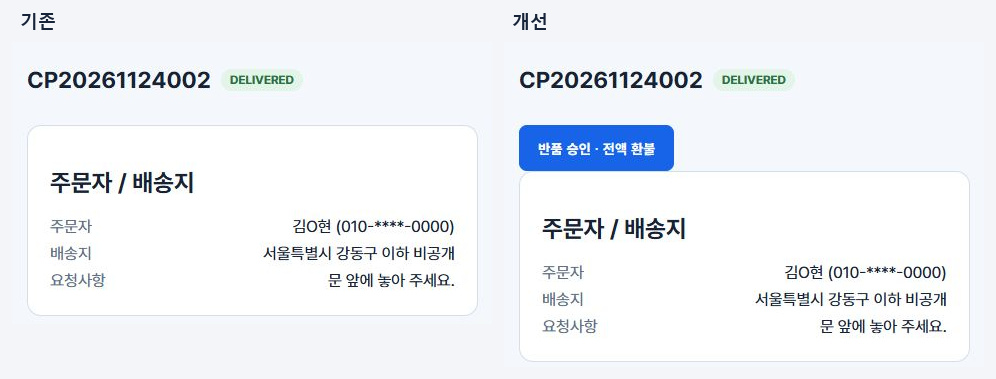
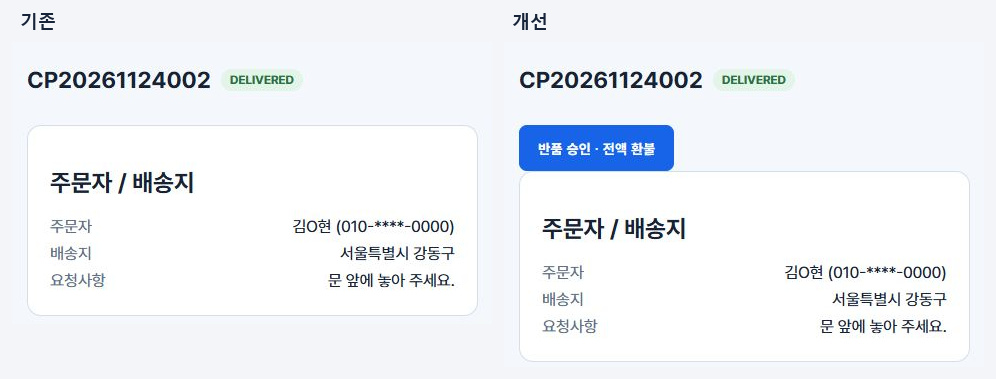
fix: show address region without extra wording

Changed region(s): [[0.747, 0.7546, 0.9649, 0.8127], [0.249, 0.6385, 0.4669, 0.6966]]

diff --git a/reforege/src/main/java/com/boot/compick/admin/AdminPrivacyMasking.java b/reforege/src/main/java/com/boot/compick/admin/AdminPrivacyMasking.java
@@ -51,9 +51,8 @@ public final class AdminPrivacyMasking {
 		return region.toString();
 	}
 
-	/** 배송지 섹션처럼 "이 상세 주소는 가려져 있다"는 걸 명시해야 할 때 쓴다. */
+	/** 배송지에 시/도·구/군만 표시한다. */
 	public static String maskAddress(String basicAddress) {
-		String region = maskAddressRegion(basicAddress);
-		return region == null ? null : region + " 이하 비공개";
+		return maskAddressRegion(basicAddress);
 	}
 }

diff --git a/src/main/java/com/boot/compick/admin/AdminPrivacyMasking.java b/src/main/java/com/boot/compick/admin/AdminPrivacyMasking.java
@@ -51,9 +51,8 @@ public final class AdminPrivacyMasking {
 		return region.toString();
 	}
 
-	/** 배송지 섹션처럼 "이 상세 주소는 가려져 있다"는 걸 명시해야 할 때 쓴다. */
+	/** 배송지에 시/도·구/군만 표시한다. */
 	public static String maskAddress(String basicAddress) {
-		String region = maskAddressRegion(basicAddress);
-		return region == null ? null : region + " 이하 비공개";
+		return maskAddressRegion(basicAddress);
 	}
 }
